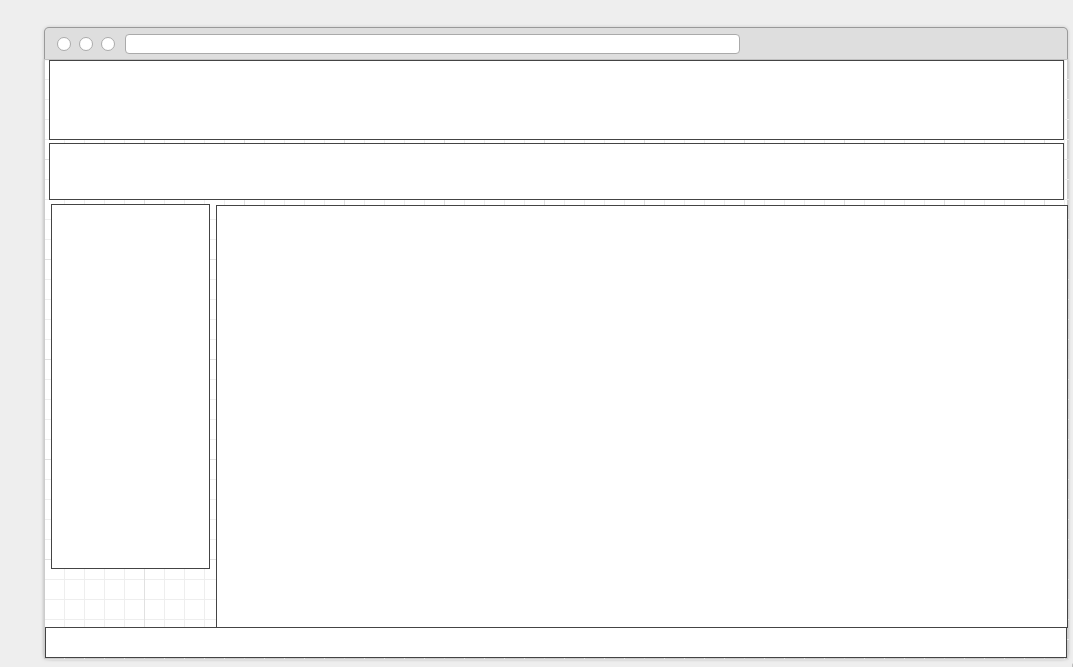
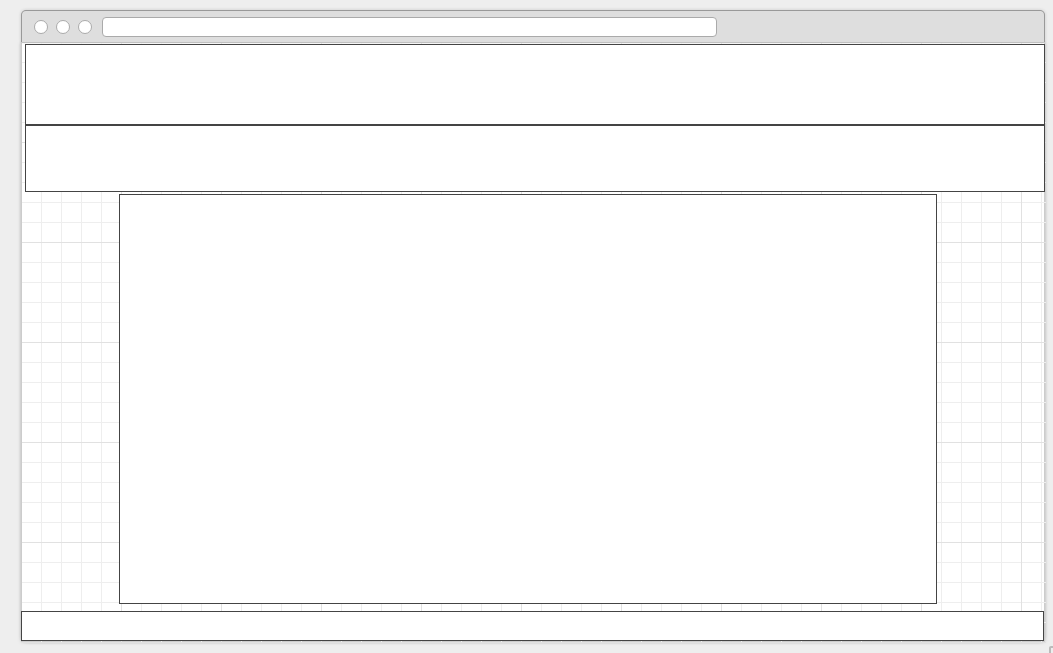
Atualização do CSS e do wireframe

diff --git a/estilo.css b/estilo.css
@@ -85,21 +85,7 @@ aside{
         
             }
  
- #asideesquerda {
-  float: left;
-  margin-top: 20px;  
-}
 
-
-aside h4{
-              color:red;
-              padding-left:100px;
-            }
-aside p{
-             color:silver;
-             margin-bottom:450px;
-             
-           }
 html, body {height:100%;}
 
 
@@ -111,7 +97,7 @@ html, body {height:100%;}
 }
 
 footer{
-    position: absolute;
+    position: relative;
     box-shadow: 2px 2px 3px #666666;
              -webkit-box-shadow: 2px 2px 3px #666666;
              -moz-box-shadow: 2px 2px 3px #666666;
@@ -144,10 +130,9 @@ footer p{
     margin-left:20px;
     margin-bottom: 10px;
     background-color:gray;
-    clear:both;
     width:85%;
     height:670px;
-    clear:both;
+    
     display: inline-block; 
     margin-left: 100px;
 }
